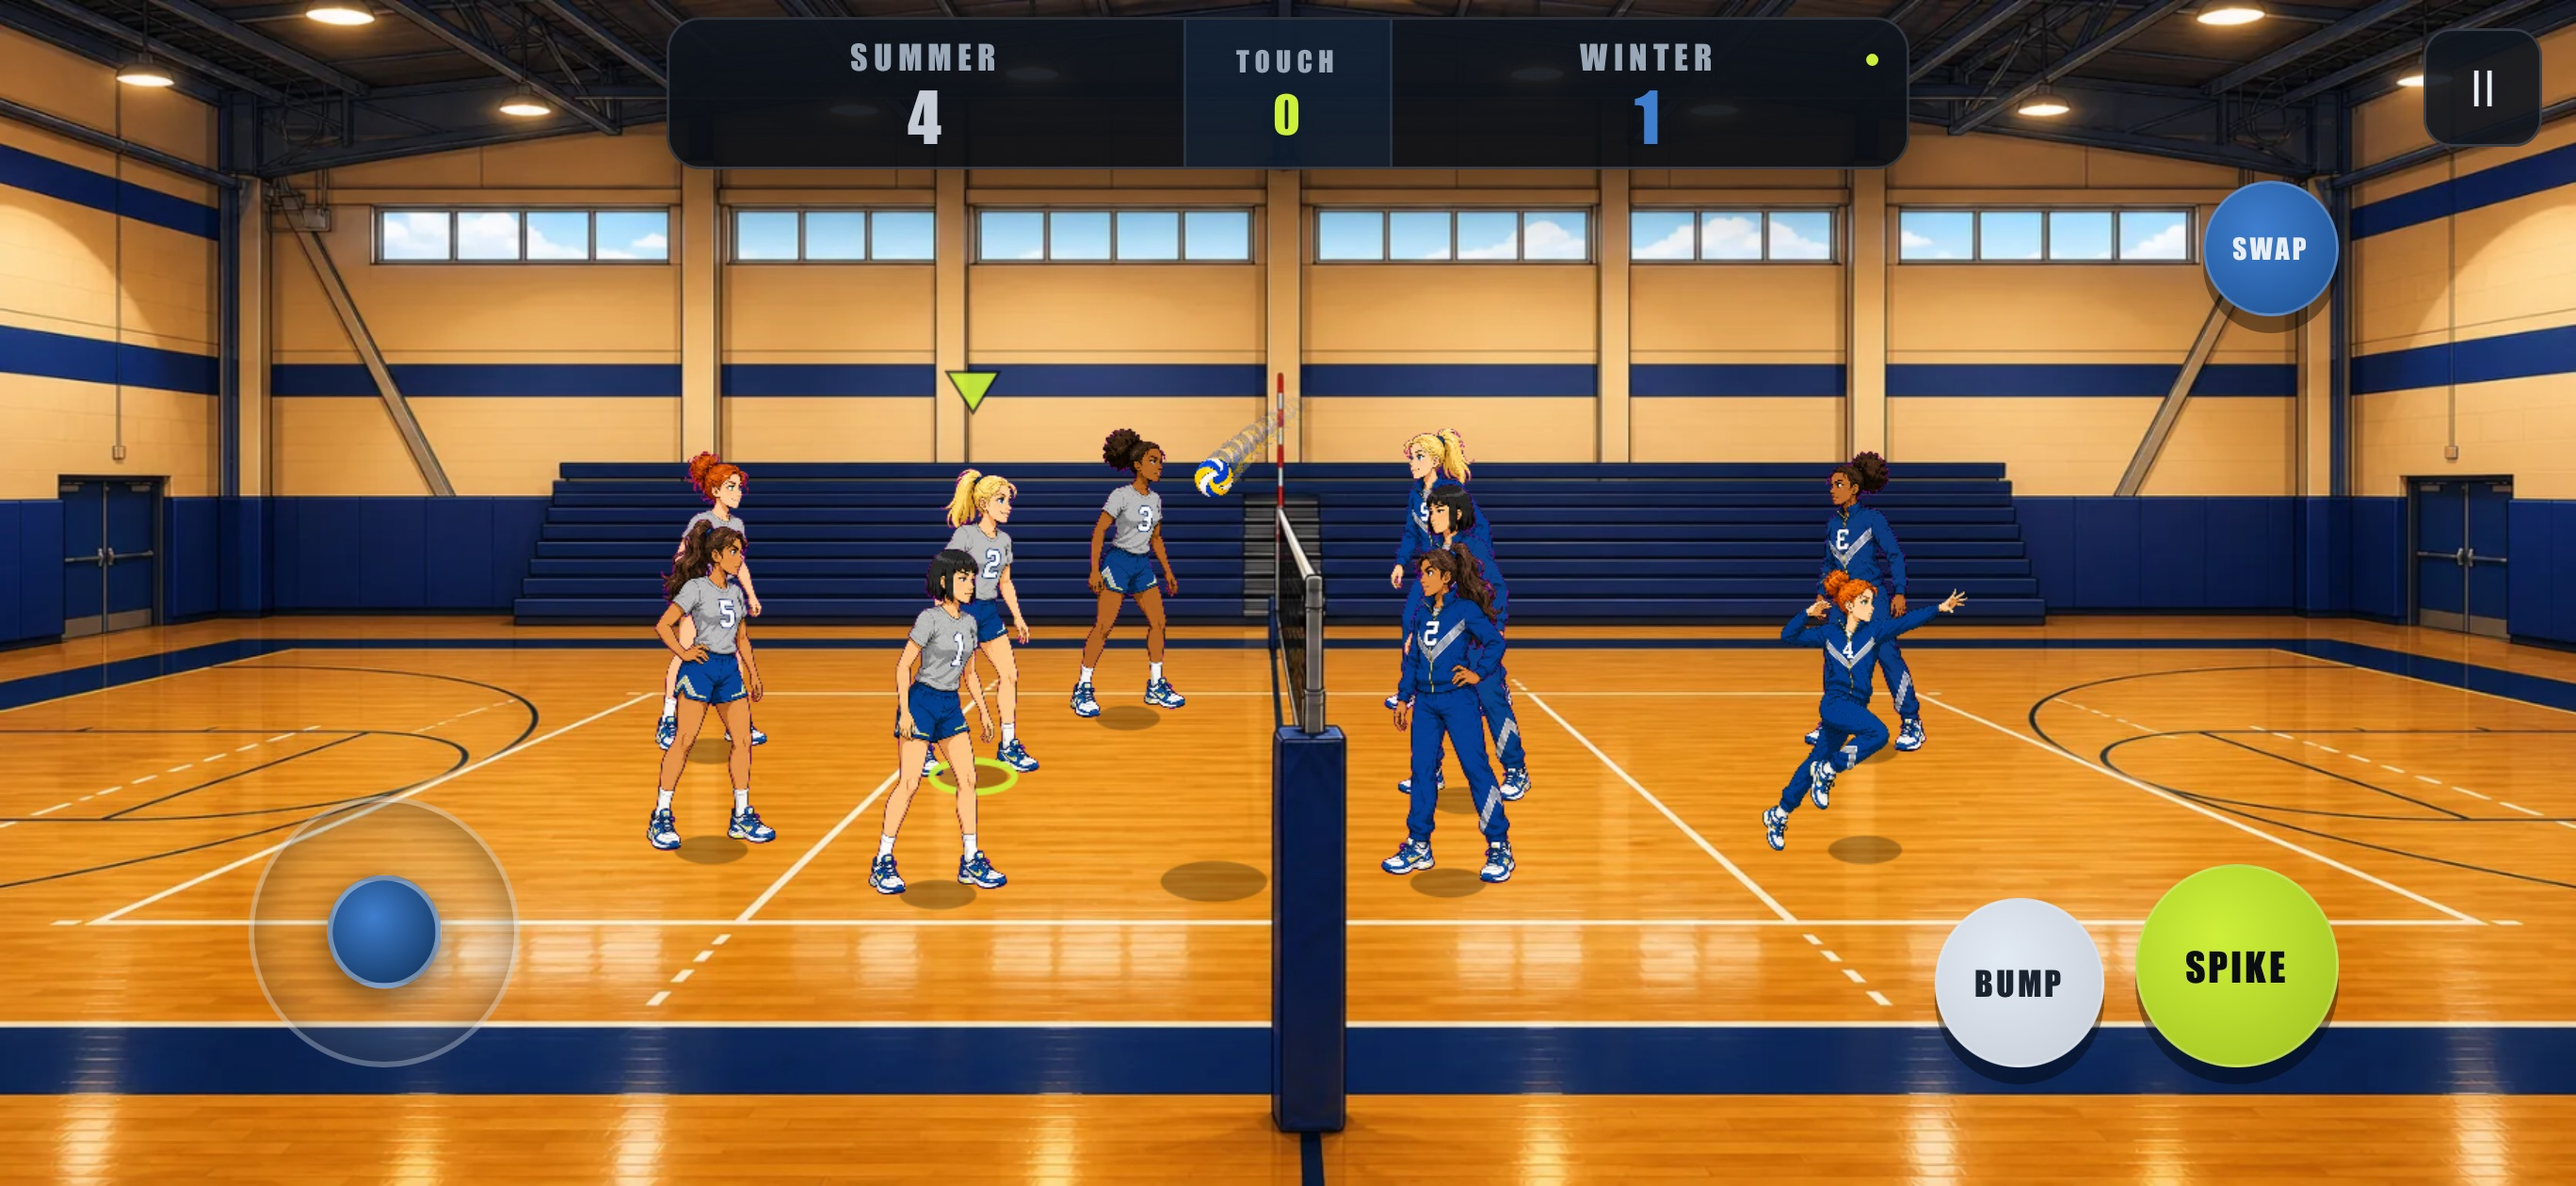
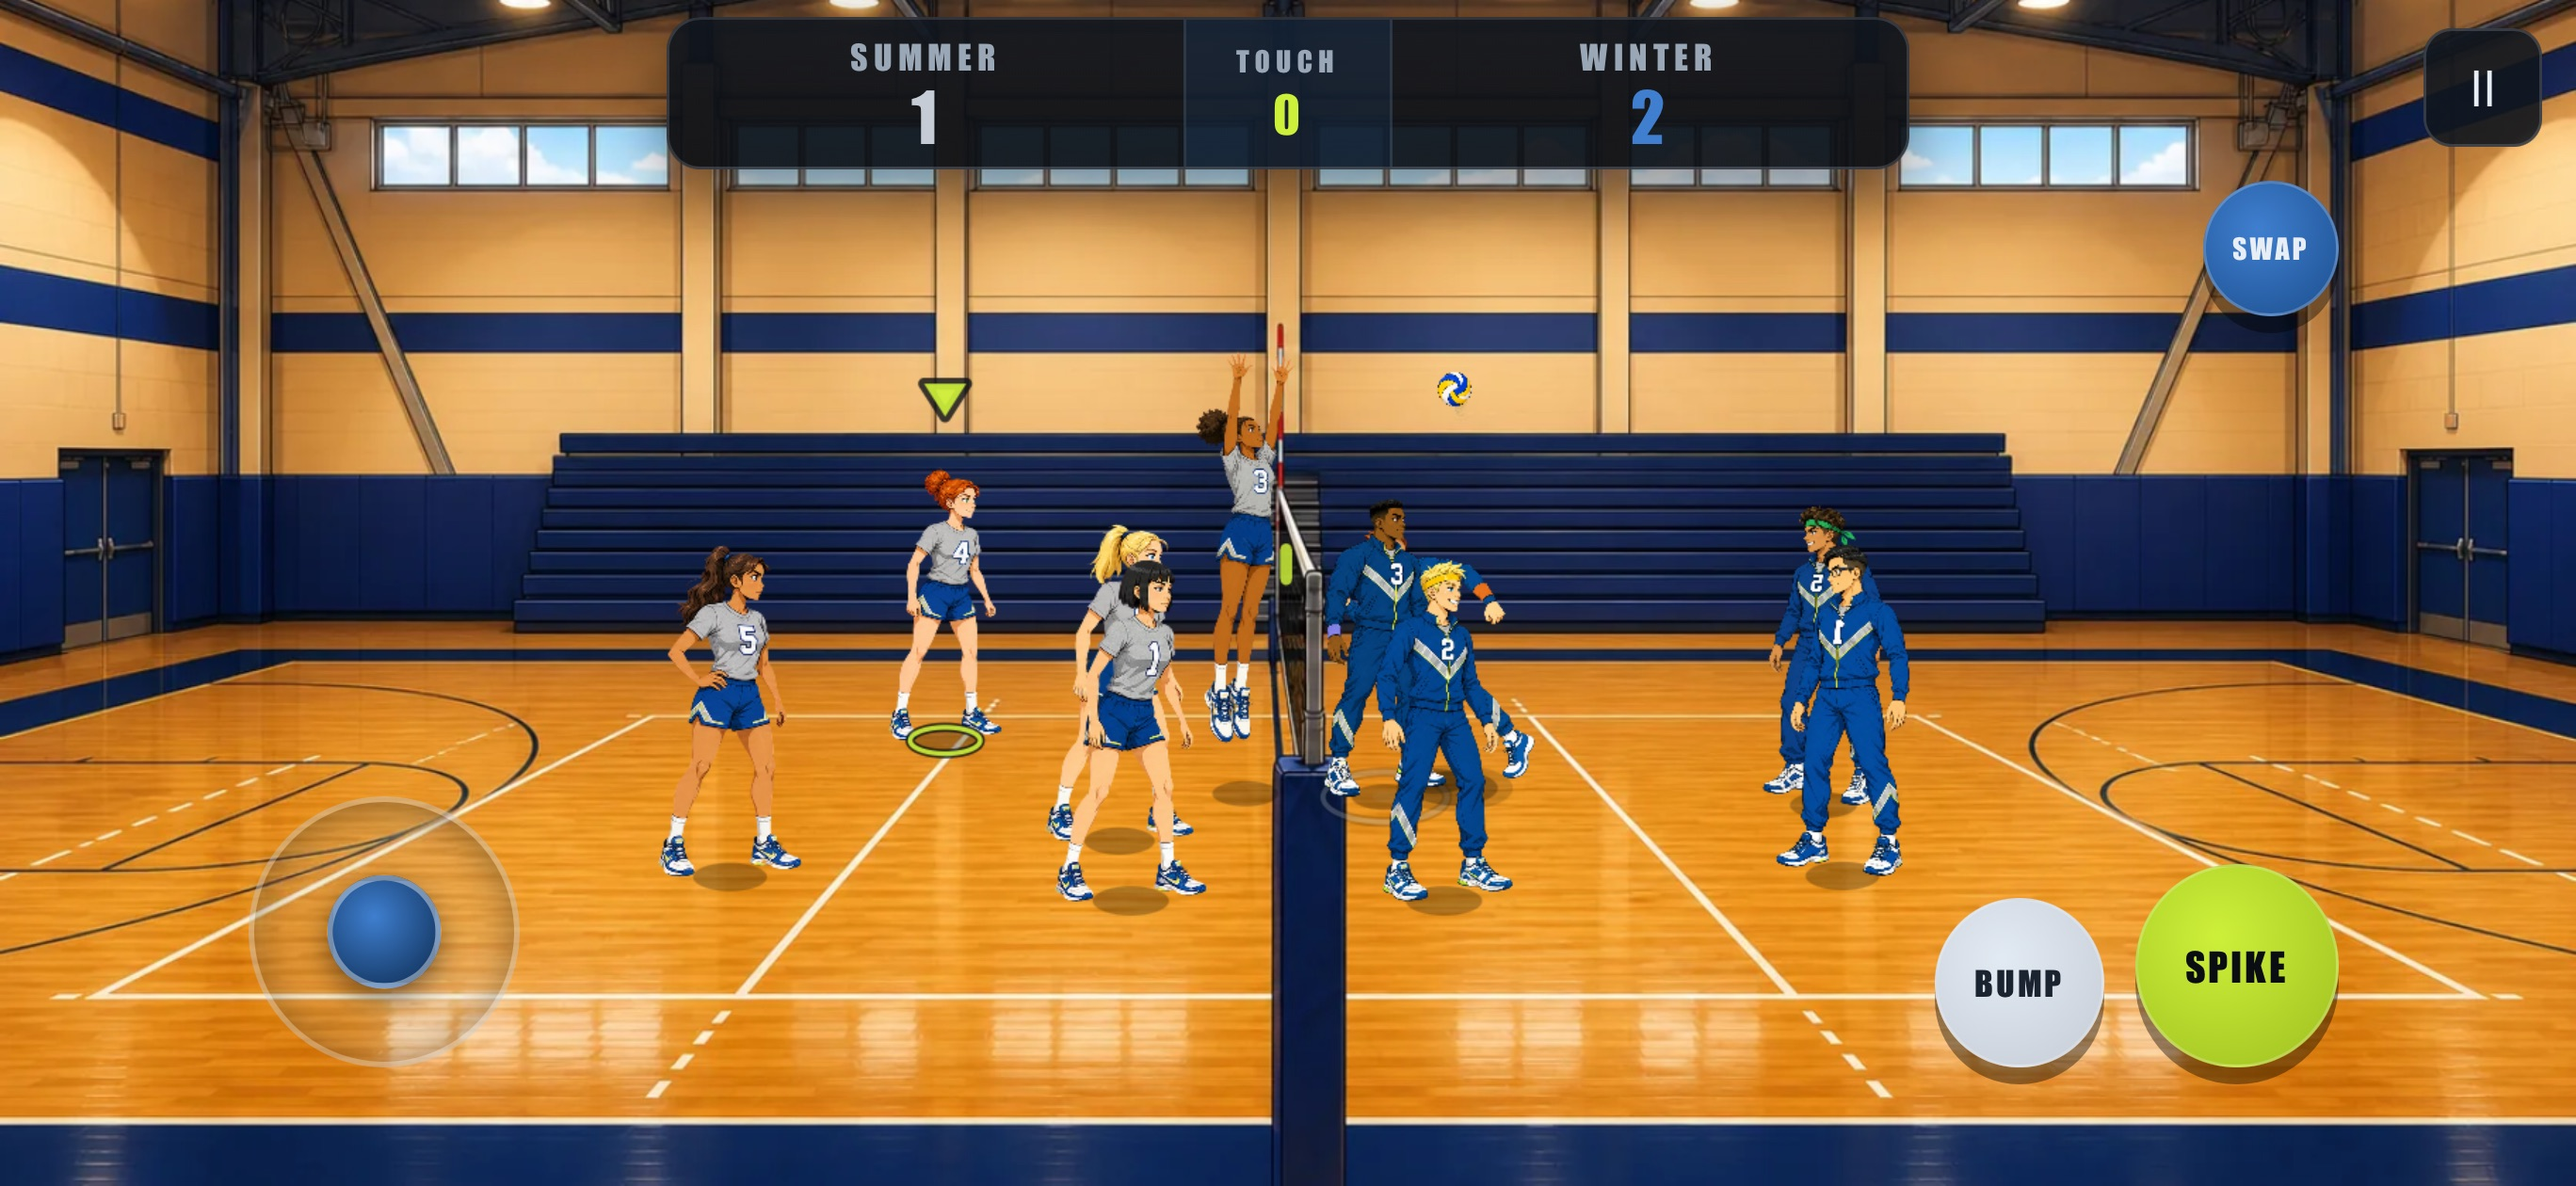
screenshots update

diff --git a/README.md b/README.md
@@ -12,7 +12,7 @@ The current open-source build is fully playable on desktop and mobile. It suppor
 
 ![Landscape Mode](landscape-demo-screenshot.jpeg)
 
-![Landscape Mode](landscape-demo-screenshot-2.png)
+![Landscape Mode](landscape-demo-screenshot-2.jpeg)
 
 ![Portrait Mode](portrait-demo-screenshot.jpeg)
 
